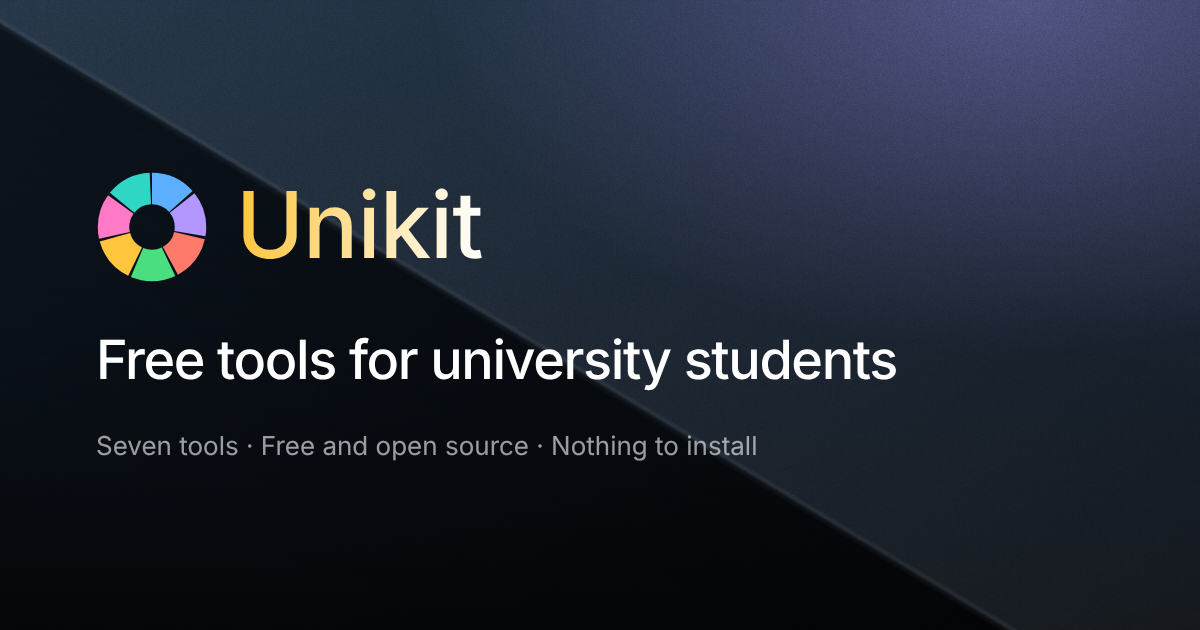
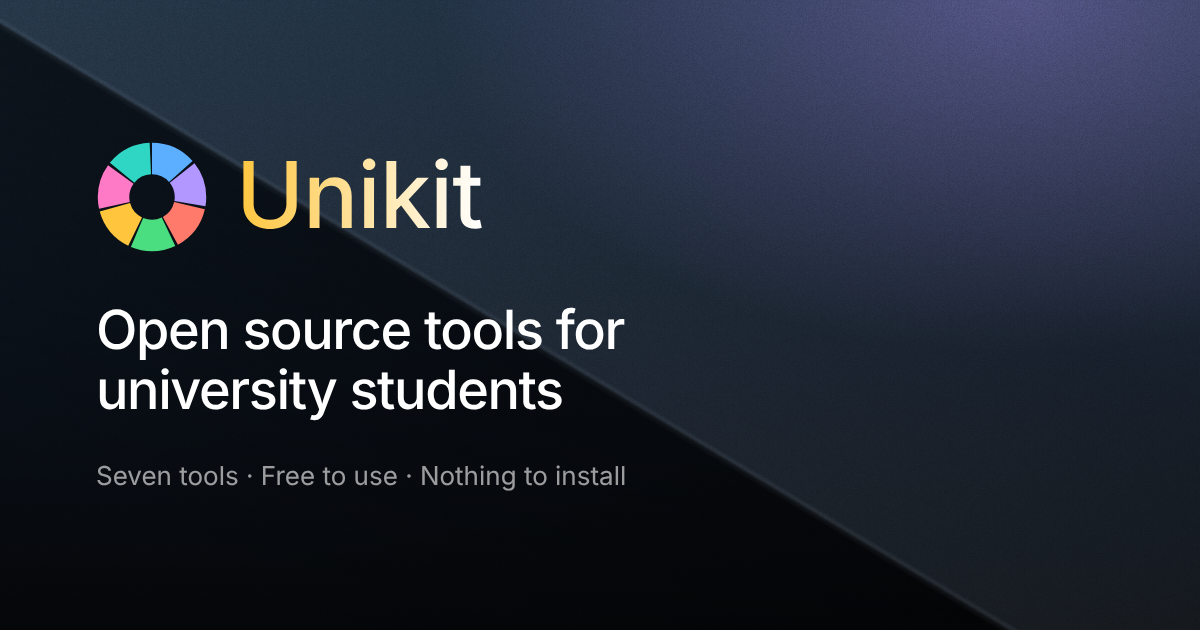
Open source headline

Changed region(s): [[0.0617, 0.4825, 0.7708, 0.6635], [0.0617, 0.2111, 0.4008, 0.4524], [0.0617, 0.6937, 0.6475, 0.7841]]

diff --git a/index.html b/index.html
@@ -412,8 +412,8 @@
   <header class="hero">
     <div class="container">
       <div class="wordmark"><img src="logo.svg" alt="Unikit logo"><span>Unikit</span></div>
-      <h1>Free tools for university students</h1>
-      <p class="tag">Seven tools &nbsp;&middot;&nbsp; Free and open source &nbsp;&middot;&nbsp; Nothing to install</p>
+      <h1>Open source tools for university students</h1>
+      <p class="tag">Seven tools &nbsp;&middot;&nbsp; Free to use &nbsp;&middot;&nbsp; Nothing to install</p>
       <a class="btn open" href="#tools">See the tools</a>
     </div>
   </header>
@@ -493,7 +493,7 @@
 
   <footer>
     <div class="f-card">
-      <div class="f-brand"><img src="logo.svg" alt="">Unikit<span style="font-size:15px;color:var(--softer)">Free tools for university students</span></div>
+      <div class="f-brand"><img src="logo.svg" alt="">Unikit<span style="font-size:15px;color:var(--softer)">Open source tools for university students</span></div>
       <div class="f-col"><h4>Moodle</h4><a class="fam" href="https://ashgar99.github.io/moodle-module-downloader/"><img src="https://ashgar99.github.io/moodle-module-downloader/logo.svg" alt="">Modzip</a><a class="fam" href="https://ashgar99.github.io/subzip/"><img src="https://ashgar99.github.io/subzip/logo.svg" alt="">Subzip</a><a class="fam" href="https://ashgar99.github.io/duecal/"><img src="https://ashgar99.github.io/duecal/logo.svg" alt="">Duecal</a><a class="fam" href="https://ashgar99.github.io/gradewise/"><img src="https://ashgar99.github.io/gradewise/logo.svg" alt="">Gradewise</a></div>
       <div class="f-col"><h4>Any university</h4><a class="fam" href="https://ashgar99.github.io/termcal/"><img src="https://ashgar99.github.io/termcal/logo.svg" alt="">Termcal</a><a class="fam" href="https://ashgar99.github.io/wordfair/"><img src="https://ashgar99.github.io/wordfair/logo.svg" alt="">Wordfair</a><a class="fam" href="https://ashgar99.github.io/readable/"><img src="https://ashgar99.github.io/readable/logo.svg" alt="">Readable</a></div>
       <div class="f-col"><h4>Project</h4><a href="https://github.com/ashgar99">GitHub</a><a href="#faq">Questions</a><a href="llms.txt">For AI assistants</a></div>
